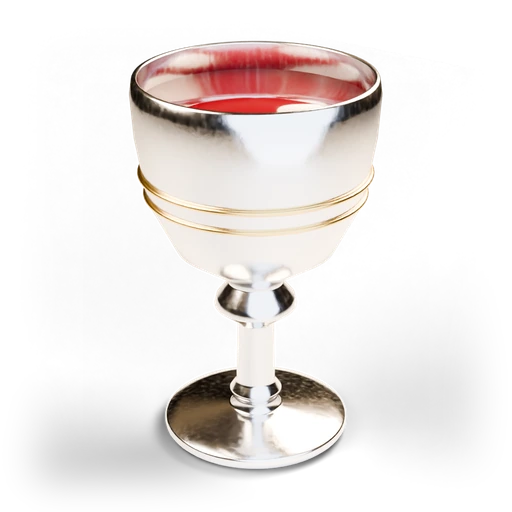
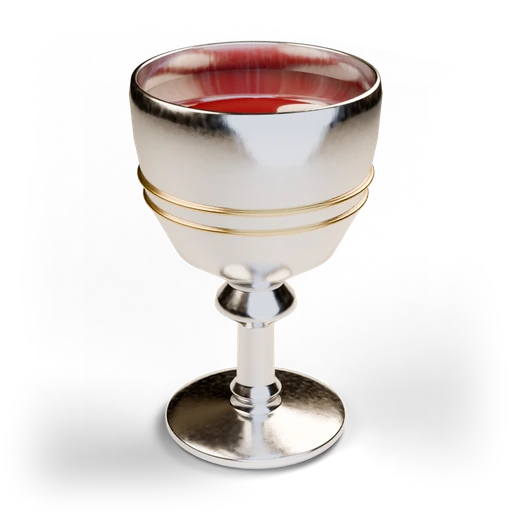
Art: refreshed kiddush cup + menorah, card/nav mock tools, README with placement plan

Changed region(s): [[0.25, 0.0625, 0.75, 0.9062]]

diff --git a/assets/3d/tools/mock_cards.py b/assets/3d/tools/mock_cards.py
@@ -1,0 +1,34 @@
+#!/usr/bin/env python3
+"""Mockup: objects on the app's dark wood and light leather cards (illustration only)."""
+import sys
+from PIL import Image, ImageDraw, ImageFont, ImageFilter
+IMG, OUT = sys.argv[1], sys.argv[2]
+F = "fonts/"
+serif = ImageFont.truetype(F + "NotoSerif-Bold.ttf", 40)
+sans = ImageFont.truetype(F + "NotoSans-Regular.ttf", 24)
+items = [("menorah_temple", "Праздники", "Менора Храма и Ханука"),
+         ("kiddush_cup", "Шаббат", "Кидуш, свечи и хала"),
+         ("torah_rolled", "Основы", "Тора, народ и вера")]
+themes = [("textures/tex-walnut.webp", (36, 23, 16), (201, 162, 90), (239, 227, 204), (191, 174, 143)),
+          ("textures/tex-leather.webp", (200, 179, 139), (107, 71, 18), (42, 26, 12), (90, 66, 40))]
+W, H, PAD = 560, 640, 36
+sheet = Image.new("RGB", (PAD + len(items) * (W + PAD), PAD + 2 * (H + PAD)))
+for r, (tex, card, line, fg, mut) in enumerate(themes):
+    bg = Image.open(tex).convert("RGB").resize((sheet.width, H + 2 * PAD))
+    sheet.paste(bg, (0, r * (H + PAD)))
+    for c, (name, title, sub) in enumerate(items):
+        x, y = PAD + c * (W + PAD), PAD + r * (H + PAD)
+        panel = Image.new("RGBA", (W, H), (0, 0, 0, 0))
+        d = ImageDraw.Draw(panel)
+        d.rounded_rectangle([0, 0, W - 1, H - 1], 22, fill=card + (238,), outline=line + (150,), width=2)
+        glow = Image.new("RGBA", (W, H), (0, 0, 0, 0))
+        ImageDraw.Draw(glow).ellipse([90, 40, W - 90, 440], fill=(255, 190, 110, 40 if r == 0 else 26))
+        panel.alpha_composite(glow.filter(ImageFilter.GaussianBlur(50)))
+        obj = Image.open(f"{IMG}/objects/{name}-512.webp").convert("RGBA").resize((440, 440), Image.LANCZOS)
+        panel.alpha_composite(obj, ((W - 440) // 2, 20))
+        d = ImageDraw.Draw(panel)
+        d.text((W // 2, 490), title, font=serif, fill=fg, anchor="mm")
+        d.text((W // 2, 545), sub, font=sans, fill=mut, anchor="mm")
+        sheet.paste(panel, (x, y), panel)
+sheet.save(OUT, "WEBP", quality=90, method=6)
+print(OUT, sheet.size)

diff --git a/assets/3d/README.md b/assets/3d/README.md
@@ -1,0 +1,37 @@
+# Procedural 3D art (Blender → WebP)
+
+Everything here is generated from code: `scripts/*.py` model each item in
+Blender 5.2 (headless, Cycles CPU), `render_all.sh` renders them and
+`tools/to_webp.py` centres/crops and writes WebP at 1024, 512 and 256 px
+with alpha. No PNG is kept. See `SPEC.md` for the look and the rules.
+
+    SAMPLES=48 JOBS=2 ./render_all.sh                 # everything
+    RES=768 SAMPLES=32 ./render_all.sh icon_quiz      # one script (all its variants)
+
+| Folder | Files | Variants |
+|---|---|---|
+| `assets/img/objects/` | 20 ritual objects + kiddush cup = 21 | one look (works on both themes) |
+| `assets/img/icons/` | 8 nav icons | `-wood`, `-leather`, each with `-hover` (turned 15°, brighter) |
+| `assets/img/emblems/` | 8 section medallions | `-wood` (brass on walnut), `-leather` (bronze on oxblood leather) |
+| `assets/img/decor/` | divider, corner, seal, bookmark | `-wood`, `-leather` |
+
+## Proposed placement (not wired yet)
+- **Sidebar nav** (Уроки, Календарь, Карточки, Викторина, Тесты, Успехи, Настройки, Источники):
+  `icons/<name>-<theme>.webp` at 40–48 px left of the label; swap to `-hover` on
+  mouse-over for a cheap "tilt + glint" effect (two pre-rendered frames, no 3D at runtime).
+- **Section cards / headers**: `emblems/<section>-<theme>.webp` replaces the flat
+  section tiles (osnovy, ivrit, shabbat, kashrut, prazdniki, semya, etika, beit_din).
+  Large header art per section: osnovy → torah_rolled / torah_open, ivrit → siddur,
+  shabbat → shabbat_candles / kiddush_cup / challah, kashrut → matzah or seder_plate,
+  prazdniki → hanukkiah / menorah_temple / shofar / lulav_etrog, semya → tallit / mezuzah,
+  etika → pirkei_avot, beit_din → magen_david / tefillin.
+- **Quiz ladder** (Викторина): pomegranate (safe steps), shofar (final question /
+  win), magen_david (record), objects as question illustrations by topic.
+- **Empty states**: siddur ("no cards today"), pirkei_avot ("no results yet"),
+  kotel ("nothing here yet"), spice_box (end of a session).
+- **Calendar holidays**: Rosh Hashana → shofar + pomegranate; Sukkot → lulav_etrog;
+  Hanukkah → hanukkiah; Pesach → seder_plate + matzah; Shabbat → shabbat_candles +
+  challah; Havdalah → havdalah_candle + spice_box; Shavuot / Simchat Torah → torah_open
+  / torah_rolled; Tisha b'Av and fasts → kotel; Tu bi-Shvat → pomegranate.
+- **Decor**: `divider` between page sections, `corner` on featured cards,
+  `seal` on passed tests / completed sections, `bookmark` on the current lesson.
